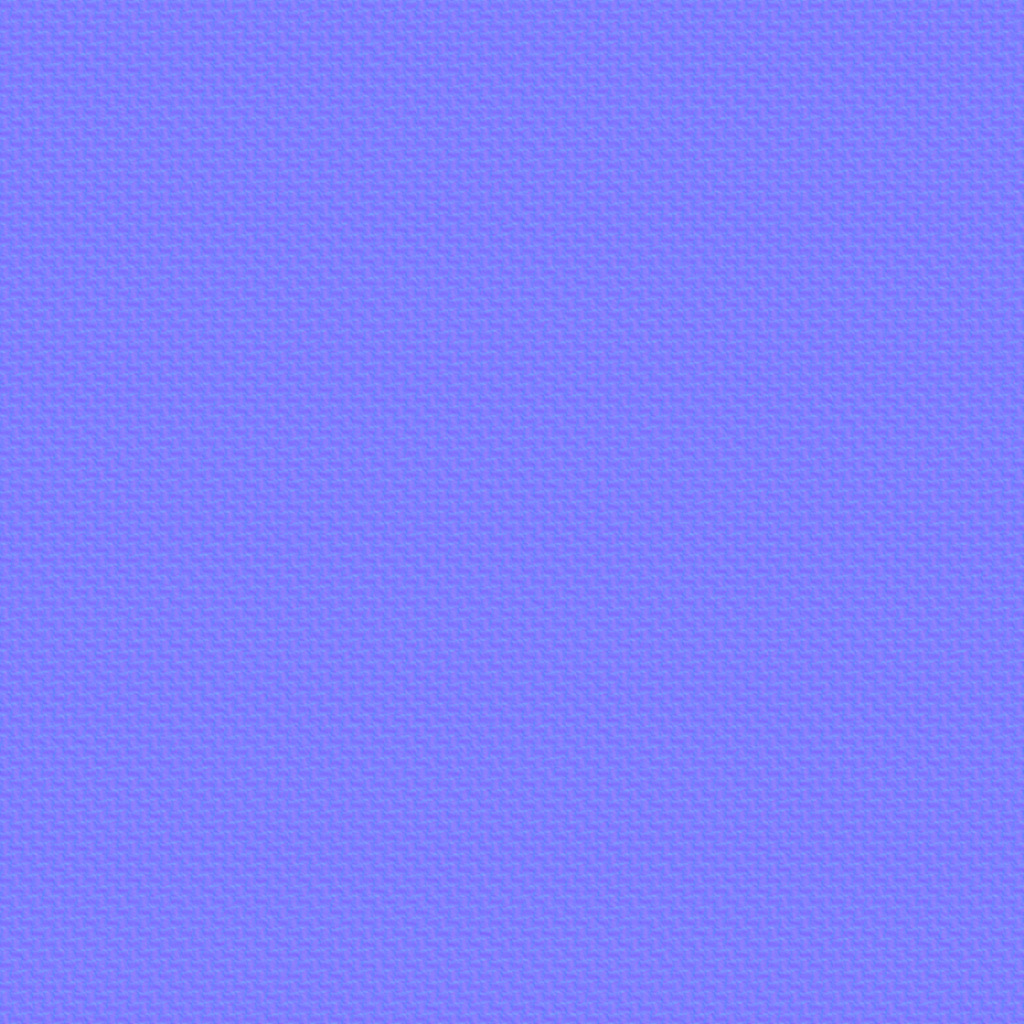
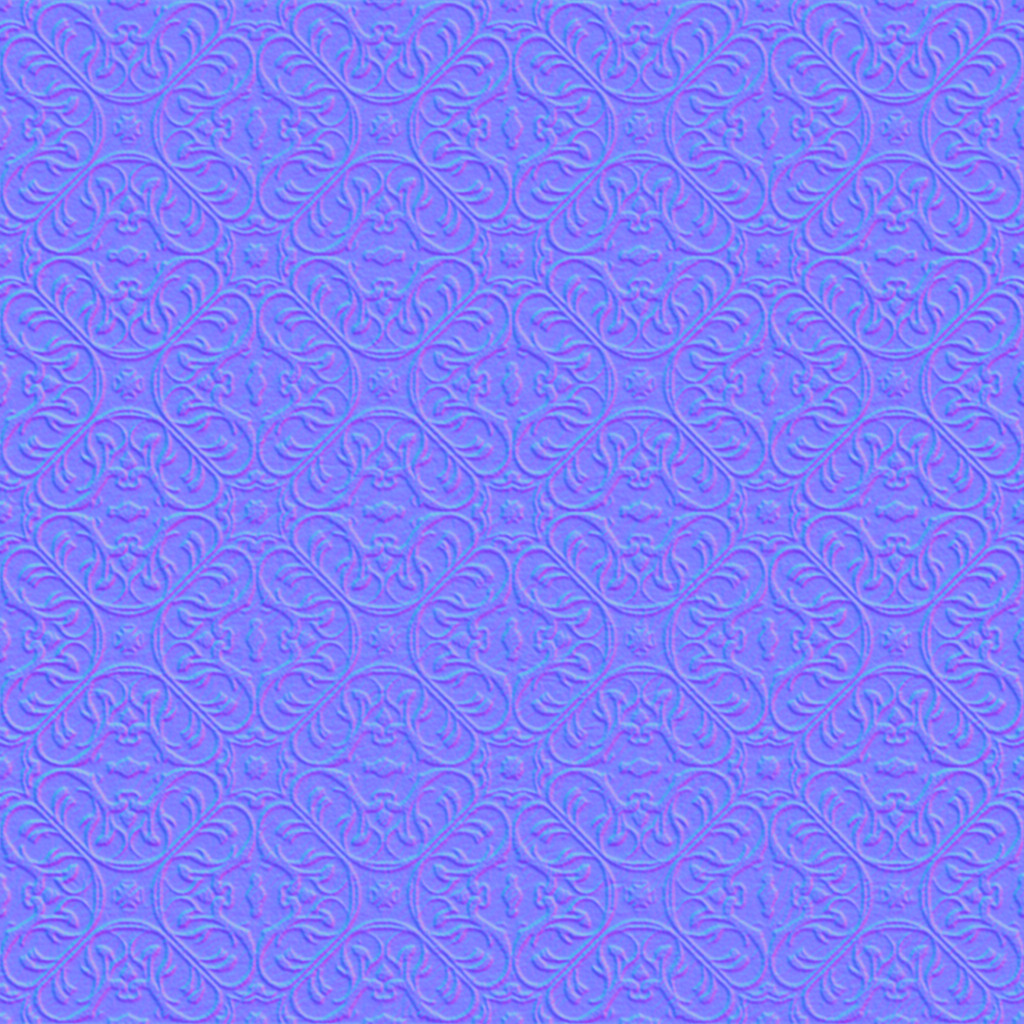
ドラクエ10風の見た目へ（5）：お城の床を大理石のタイルに、じゅうたんに唐草模様
- Gemini で描いたお城の床（クリーム色と灰色の市松の大理石）と、赤いじゅうたんの布地を取りこむ
- 室内の石の床はタイル、村の広場は石畳のまま

diff --git a/src/world/surfaces.js b/src/world/surfaces.js
@@ -24,7 +24,8 @@ const TEX = {
   planks: { size: 2.0, normal: 0.9 },
   plaster: { size: 2.5, normal: 0.9 },
   rock: { size: 5.0, normal: 1.0 },
-  fabric: { size: 0.6, normal: 0.7 },
+  fabric: { size: 1.4, normal: 0.6 },
+  tiles: { size: 4.0, normal: 0.6 },
 };
 let texLo = false;
 /** 軽量設定では半分の解像度のテクスチャを使う */
@@ -122,7 +123,9 @@ function kindOf(name) {
 
 export function enhanceSurface(mat, heightTex, uvParams, cut = false, offU = null) {
   const off = offU || { value: new THREE.Vector2() };
-  const kind = kindOf(mat.name || '') || (cut ? 'none' : null);
+  let kind = kindOf(mat.name || '') || (cut ? 'none' : null);
+  // 室内（お城など）の石の床は、磨いた四角いタイル。村の広場は石畳のまま
+  if (cut && mat.name === 'StoneFloor') kind = 'tiles';
   if (!kind || mat.userData.enhanced) return;
   mat.userData.enhanced = true;
   const T = TEX[kind];

diff --git a/scripts/process_gemini_tex.py b/scripts/process_gemini_tex.py
@@ -29,6 +29,8 @@ JOBS = {
     'roof': ('tex_roof', 8.0, 1.0, 0.8),
     'rock': ('tex_rock', 8.0, 1.0, 0.9),
     'flagstone': ('tex_cobble', 8.0, 1.0, 0.85),
+    'tiles': ('tex_tiles', 4.0, 0.6, 0.45),
+    'fabric': ('tex_carpet', 2.5, 0.6, 0.95),
     # 地面（terrain.js）
     'g_grass': ('tex_grass', 3.0, 0.6, 0.95),
     'g_grass2': ('tex_grass2', 3.0, 0.6, 0.95),
@@ -43,6 +45,8 @@ JOBS = {
 # 出力名: (大きなむらを取る強さ, 明るさの差の強さ, 色の差を残す割合)
 OPT = {
     'plaster': (1.0, 0.45, 0.2),
+    'fabric': (0.85, 0.45, 0.3),
+    'tiles': (0.6, 0.8, 0.3),
     'g_grass': (1.0, 0.9, 0.25),
     'g_grass2': (1.0, 0.9, 0.25),
     'g_snow': (1.0, 0.8, 0.3),
